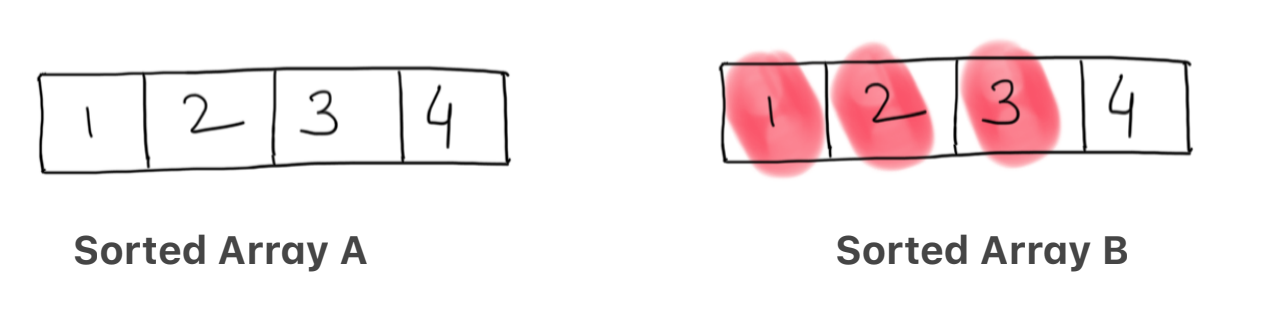
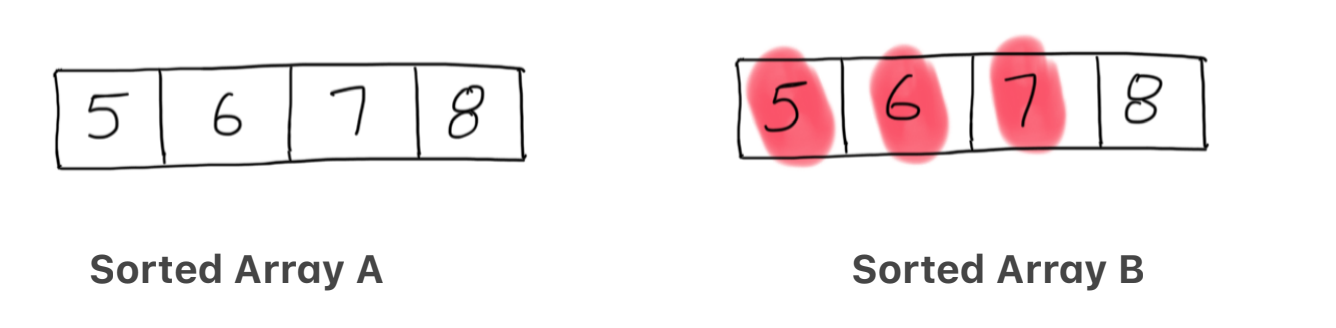
Added new images

diff --git a/Adhoc/Advantage-Shuffle/README.md b/Adhoc/Advantage-Shuffle/README.md
@@ -11,31 +11,31 @@ We need to form pairs of elements in A and elements in B, such that `A[i] > B[i]
 
 Consider two arrays:
 ```
-A = [1, 2, 3, 4]
-B = [1, 2, 3, 4]
+A = [5, 6, 7, 8]
+B = [5, 6, 7, 8]
 ```
 
 `Possible Pairing - Advantage - 2`
 
  A | B
 ---|---
-`4`|`1`
-`3`|`2`
- 1 | 3
- 2 | 4
+`8`|`5`
+`7`|`6`
+ 5 | 7
+ 6 | 8
 
-In the above example, if we pair up A's `4` and B's `1`, we have lost the chance of pairing up B's `1` with a better candidate, which might be smaller number than `4` and hence 4 could be utilized some where else.
+In the above example, if we pair up A's `8` and B's `5`, we have lost the chance of pairing up B's `5` with a better candidate, which might be smaller number than `8` and hence A's `8` could be utilized some where else.
 
 `Better Pairing - Advantage - 3`
 
  A | B
 ---|---
-`2`|`1`
-`3`|`2`
-`4`|`3`
-1  |4
+`6`|`5`
+`7`|`6`
+`8`|`7`
+ 5 | 8
 
-As seen in the above example if we paired the lowest A's with lowest B's initially, we would have more pairs. The basic intuition for this problem is to be greedy.
+As seen in the above example if we paired the lowest A's with lowest B's initially, we would have more advantage pairs. The basic intuition for this problem is to be greedy.
 
 Here by greedy we mean start with the smallest values in A and start pairing with the smallest values from B. This would ensure that a lower value in A is matched to a lower value in B. If not then we look for other higher values. Directly jumping on to higher values in A might lead to wrong pairs at the start as described above and the smaller values in `A` might not find any suitable partner. :)
 
@@ -43,13 +43,21 @@ Here by greedy we mean start with the smallest values in A and start pairing wit
 
 #### Algorithm
 
+<p align="center">
+<img src="../../Images/AdvantageShuffle/Algorithm0.png" width="600">
+</p>
+
+Above are two arrays `A` and `B` and we need to find the best advantage shuffle for A, w.r.t B.
+
 1. Sort `A` in increasing order of value.
 2. Reform the list `B` to also store the original indices of each element. This index is to be used later on, to place the `shuffled array A` element corresponding to the correct `B`'s element.
-3. Now sort the array `B` on the basis of value, in increasing order.
+3. Now sort the reformed array `B` on the basis of value, in increasing order.
 
 <p align="center">
 <img src="../../Images/AdvantageShuffle/Algorithm1.png" width="600">
 </p>
+
+The above figure shows the sorted arrays A and B. In the implementation we keep elements of B as tuples, to store the original index of each element next to it.
 
 4. Take a new array `shuffled_A` to be returned.
 5. Iterate both the sorted arrays using index pointers say, i and j.
@@ -59,6 +67,8 @@ Here by greedy we mean start with the smallest values in A and start pairing wit
 <p align="center">
 <img src="../../Images/AdvantageShuffle/Algorithm2.png" width="600">
 </p>
+
+The `red` markings show elements of array A which have an advantage over array elements of B and are put at the correct positions in `shuffled_A`. The `green` marking is to show positions which are left blank. `Remaining` list keeps the elements of `A` which do not have any advantage.
 
 8. After we are done with finding all the advantage elements in `A` and placing them in the correct spot in `shuffled_A`. We can put all the remaining non advantage elements of A in the empty spots of `shuffled_A`. Since, the elements in these empty spots do not count towards the advantage, hence their placement doesn't matter.
 
